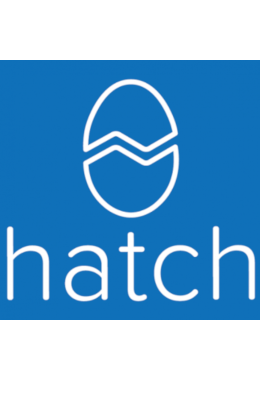
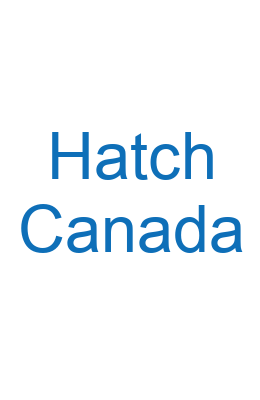
Finished first build of experience section

diff --git a/index.html b/index.html
@@ -9,22 +9,20 @@
 	<meta name="author" content="Rashid N H M" />
 	<meta name="viewport" content="width=device-width,initial-scale=1.0" />
 	
-	<link rel="stylesheet" href=" https://cdnjs.cloudflare.com/ajax/libs/normalize/8.0.0/normalize.min.css" integrity="sha256-oSrCnRYXvHG31SBifqP2PM1uje7SJUyX0nTwO2RJV54=" crossorigin="anonymous"/>
+	<link rel="stylesheet" href=" https://cdnjs.cloudflare.com/ajax/libs/normalize/8.0.0/normalize.min.css" integrity="sha256-oSrCnRYXvHG31SBifqP2PM1uje7SJUyX0nTwO2RJV54=" crossorigin="anonymous" />
 	<link rel="stylesheet" href="https://fonts.googleapis.com/icon?family=Material+Icons" />
 	<link rel="stylesheet" href="https://cdn.jsdelivr.net/npm/slick-carousel@1.8.1/slick/slick.css" integrity="sha384-MUdXdzn1OB/0zkr4yGLnCqZ/n9ut5N7Ifes9RP2d5xKsTtcPiuiwthWczWuiqFOn" crossorigin="anonymous" />
 	<link rel="stylesheet" href="css/hint.css" />
 	<link rel="stylesheet" href="css/style.css" />
 	<link rel="stylesheet" href="css/component.css" />
-	<!--<link rel="stylesheet" href="https://stackpath.bootstrapcdn.com/bootstrap/4.1.1/css/bootstrap.min.css" integrity="sha384-WskhaSGFgHYWDcbwN70/dfYBj47jz9qbsMId/iRN3ewGhXQFZCSftd1LZCfmhktB" crossorigin="anonymous" />-->
 	
 	<script src="https://code.jquery.com/jquery-3.3.1.slim.min.js" integrity="sha256-3edrmyuQ0w65f8gfBsqowzjJe2iM6n0nKciPUp8y+7E=" crossorigin="anonymous"></script>
 	<script src="https://cdn.jsdelivr.net/npm/slick-carousel@1.8.1/slick/slick.min.js" integrity="sha384-YGnnOBKslPJVs35GG0TtAZ4uO7BHpHlqJhs0XK3k6cuVb6EBtl+8xcvIIOKV5wB+" crossorigin="anonymous"></script>
-	<!--<script src="https://stackpath.bootstrapcdn.com/bootstrap/4.1.1/js/bootstrap.min.js" integrity="sha384-smHYKdLADwkXOn1EmN1qk/HfnUcbVRZyYmZ4qpPea6sjB/pTJ0euyQp0Mk8ck+5T" crossorigin="anonymous"></script>-->
 	<script src="js/modernizr.custom.js"></script>
 </head>
 <body>
 	<div id="home">
-		<div class="profile_picture" id="home">
+		<div class="profile_picture" id="profile_picture">
 			<canvas id="canvas1" class="matrix_effect"></canvas>
 			<canvas id="canvas2" class="matrix_effect"></canvas>
 			<img src="images/profile_picture.jpg" alt="Profile Picture" />
@@ -80,6 +78,10 @@
 	</div>
 	<div id="experience" class="experience">
 		<h2 class="experience_title">Experience</h2><br />
+		<div class="experience_header">
+			<h3 id="pc">Hover over each image for more information</h3>
+			<h3 id="mob">Click each image for more information</h3>
+		</div>
 		<div class="experience_container">
 			<div class="exp_wrapper">
 				<ul class="stage clearfix">
@@ -90,10 +92,10 @@
 								<header>
 									<h1>Automation and Process Improvement Specialist</h1>
 									<span class="year">2017 - Present</span>
-									<span class="rating">Bell Canada</span>
+                                    <span class="rating"><a style="color: inherit; text-decoration: inherit;" href="https://www.bell.ca" target="_blank">Bell Canada</a></span>
 									<span class="duration"></span>
 								</header>
-								<p style="text-align: justify;">
+								<p class="experience_para">
 									- Created various internal software to aid linear process automation <br /><br />
 									- Automated remote file management by making software to batch transfer large files <br /><br />
 									- Streamlined validation of various file contents across multiple platforms <br /><br />
@@ -101,19 +103,20 @@
 							</div>
 						</div>
 					</li>
-
 					<li class="scene">
 						<div class="movie" onclick="return true">
 							<div class="poster"></div>
 							<div class="info">
 								<header>
-									<h1>Vengeance Valley</h1>
-									<span class="year">1951</span>
-									<span class="rating">NR</span>
-									<span class="duration">83 minutes</span>
+									<h1>Virtual Machine Designer</h1>
+									<span class="year">2016 - 2017</span>
+									<span class="rating"><a style="color: inherit; text-decoration: inherit;" href="https://uoit.ca" target="_blank">UOIT</a></span>
+									<span class="duration"></span>
 								</header>
-								<p>
-									A cattle baron takes in an orphaned boy and raises him, causing his own son to resent the boy. As they get older the resentment festers into hatred, and eventually the real son frames his stepbrother for fathering an illegitimate child that is actually his, seeing it as an opportunity to get his half-brother out of the way so he can have his father's empire all to himself.
+								<p class="experience_para">
+									- Used terminal based Virtual Machine manager to manage KVMs <br /><br />
+									- Created CTF challenges utilizing and exploiting vulnerabilities of different platforms <br /><br />
+									- Deployed docker with pre-defined images to host challenge environments<br /><br />
 								</p>
 							</div>
 						</div>
@@ -124,13 +127,15 @@
 							<div class="poster"></div>
 							<div class="info">
 								<header>
-									<h1>The Gold Rush</h1>
-									<span class="year">1925</span>
-									<span class="rating">NR</span>
-									<span class="duration">95 minutes</span>
+									<h1>Alpha Instructor</h1>
+									<span class="year">2016 - 2018</span>
+                                    <span class="rating"><a style="color: inherit; text-decoration: inherit;" href="https://hatchcoding.com/ca" target="_blank">Hatch Canada</a></span>
+									<span class="duration"></span>
 								</header>
 								<p>
-									The Tramp travels to the Yukon to take part in the Klondike Gold Rush. He gets mixed up with some burly characters and falls in love with the beautiful Georgia. He tries to win her heart with his singular charm.
+									- Instrct and coack students on JavaScript and Python <br /><br />
+									- Assist in making Python Project Library for Hatch Alpha <br /><br />
+									- Create lessons and exercises on a personalised per student basis to preare them for different competitions<br /><br />
 								</p>
 							</div>
 						</div>
@@ -139,6 +144,11 @@
 				</ul>
 			</div><!-- /wrapper -->
 		</div>
+        <div style="display: flex; justify-content: center;">
+            <h3 style="margin-top: 6px;">See full descriptions of job experience here &nbsp&nbsp</h3>
+            <a href="https://www.linkedin.com/in/rashid-nhm/" target="_blank"><img src="images/linkedin_icon.png" /></a>
+        </div>
+
 	</div>
 	<script src="js/matrix.js"></script>
 	<script>
@@ -157,7 +167,6 @@
 					nextArrow: false,
 					dots: false,
 					pauseOnHover: false,
-					mobileFirst: true,
 					responsive: [
 						{
 							breakpoint: 600,
@@ -165,7 +174,10 @@
 						},
 						{
 							breakpoint: 480,
-							settings: { slidesToShow: 1 }
+							settings: { 
+								slidesToShow: 1,
+								mobileFirst: true
+							}
 						}
 					]
 				});

diff --git a/css/style.css b/css/style.css
@@ -68,7 +68,7 @@ body {
 	display: flex;
 	align-items: center;
 	justify-content: center;
-	
+	z-index: 999;
 }
 .quick-nav-bar li {
 	display: inline-block;
@@ -106,18 +106,13 @@ body {
 .objective {
 	margin-top: -7%;	
 }
-img {
-	max-width: 100%;
-	height: auto;
-	width: auto/9;
-}
 .slick-initialized .slick-track {
     display: flex;
     align-items: center;
 }
-.objective, .experience {
-	margin-right: 5em;
+.objective, .experience h2 {
 	margin-left: 5em;
+	margin-right: 5em;
 }
 .experience {
 	margin-top: 5em;	
@@ -129,6 +124,20 @@ img {
 .experience_container {
 	display: flex;
 	justify-items: center;
+}
+img {
+	max-width: 100%;
+	height: auto;
+	width: auto/9;
+}
+.experience_para {
+	text-align: jusitfy;	
+}
+.experience_header {
+	margin-left: 7.5em;
+}
+.experience_header #mob {
+	display: none;
 }
 /*If viewed on mobile*/
 @media 
@@ -156,5 +165,15 @@ only screen and (max-width: 760px),
 	}
 	.objective {
 		margin-top: -25%;	
+	}
+	.experience #mob {
+		display: inherit;
+	}
+	.experience #pc {
+		display: none;
+	}
+	.experience, .experience .experience_header {
+		margin: auto;
+		margin-top: 5px;
 	}
 }

diff --git a/css/component.css b/css/component.css
@@ -1,7 +1,7 @@
 *, *:after, *:before { -webkit-box-sizing: border-box; -moz-box-sizing: border-box; box-sizing: border-box; }
 
 .exp_wrapper {
-	margin: 0 auto 100px auto;
+	margin: 0 auto;
 	max-width: 960px;
 }
 
@@ -185,11 +185,11 @@ Posters and still images
 }
 
 .scene:nth-child(2) .info header {
-	background-image: url(../img/still02.jpg);
+	background-image: url(../images/poster_uoit.png);
 }
 
 .scene:nth-child(3) .info header {
-	background-image: url(../img/still03.jpg);
+	background-image: url(../images/poster_hatch.png);
 }
 
 /*************************************
